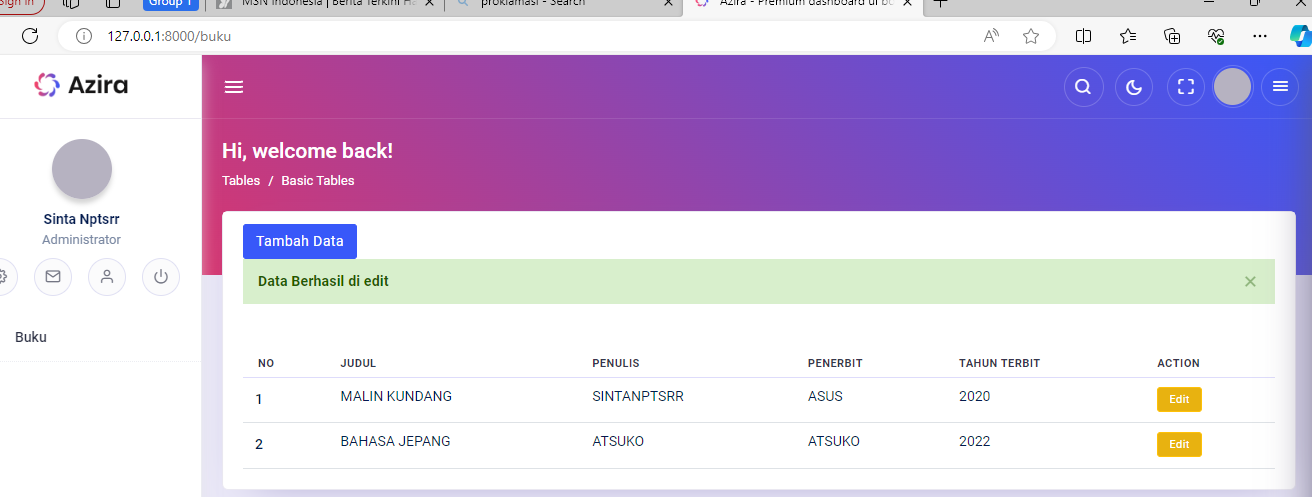
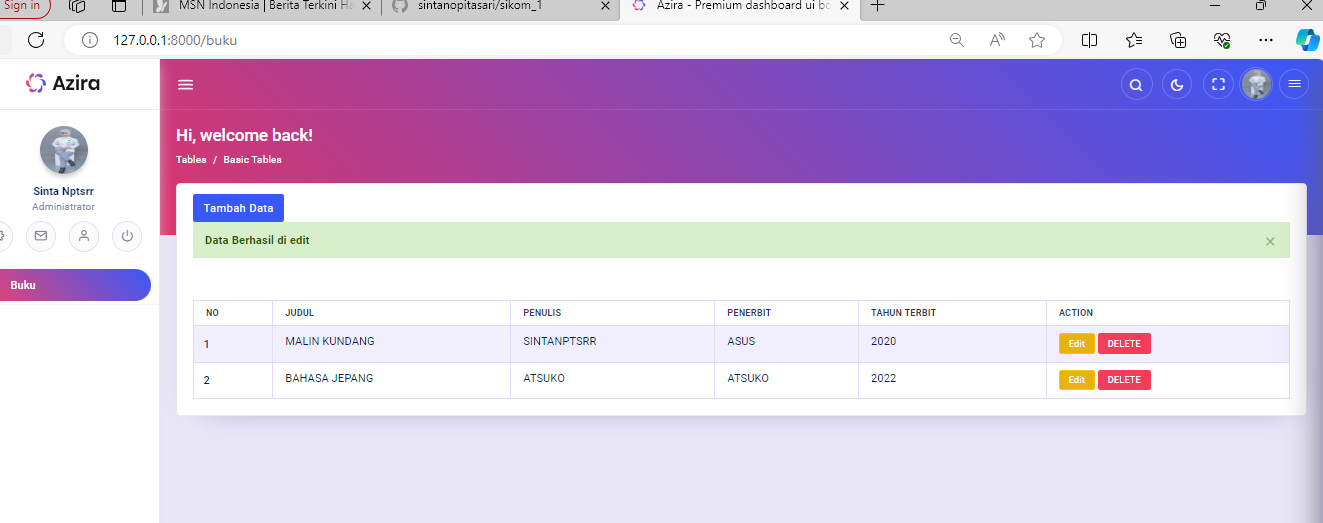
pembaharuan_hari_selasa

diff --git a/resources/views/auth/login.blade.php b/resources/views/auth/login.blade.php
@@ -8,9 +8,9 @@
 					<div class="my-auto authentication-pages">
 						<div>
 							<img src="{{ asset('') }}assets/img/brand/logo-white.png" class=" m-0 mb-4" alt="logo">
-							<h5 class="mb-4">Responsive Modern Dashboard &amp; Admin Template</h5>
-							<p class="mb-5">Lorem Ipsum is simply dummy text of the printing and typesetting industry. Lorem Ipsum has been the industry's standard dummy text ever since the 1500s, when an unknown printer took a galley of type and scrambled it to make a type specimen book.</p>
-							<a href="index.html" class="btn btn-success">Learn More</a>
+							<h5 class="mb-4">Harap Login terlebih dahulu untuk masuk ke Aplikasi</h5>
+							<p class="mb-5">Selamat Datang !!</p>
+
 						</div>
 					</div>
 				</div>
@@ -18,22 +18,19 @@
 					<div class="main-signin-header">
 						<h2>Welcome back!</h2>
 						<h4>Please sign in to continue</h4>
-						<form action="index.html">
+						<form action="{{ route('auth') }}" method="POST">
+						@csrf 
 							<div class="form-group">
-								<label>Email</label><input class="form-control" placeholder="Enter your email" type="text" value="sintanptsrr.com">
+								<label>Email</label><input class="form-control" placeholder="Enter your email" type="email" value="{{ old('email') }}" name="email">
 							</div>
 							<div class="form-group">
-								<label>Password</label> <input class="form-control" placeholder="Enter your password" type="password" value="sintanptsrr">
-							</div><button class="btn btn-primary btn-block">Sign In</button>
+								<label>Password</label> <input class="form-control" placeholder="Enter your password" type="password" value="{{ old('password') }}" name="password">
+							</div><button class="btn btn-primary btn-block" type="submit">Sign In</button>
 						</form>
-					</div>
-					<div class="main-signin-footer mt-3 mg-t-5">
-						<p><a href="">Forgot password?</a></p>
-						<p>Don't have an account? <a href="page-signup.html">Create an Account</a></p>
 					</div>
 				</div>
 			</div>
-			</div>
 		</div>
+	</div>
 
 @endsection

diff --git a/resources/views/_template_back/navheader.blade.php b/resources/views/_template_back/navheader.blade.php
@@ -58,12 +58,12 @@
 
 									</div>
 									<div class="dropdown main-profile-menu nav nav-item nav-link">
-										<a class="profile-user d-flex" href=""><img src="{{ asset ('assets')}}/img/faces/6.jpg" alt="user-img" class="rounded-circle mCS_img_loaded"><span></span></a>
+										<a class="profile-user d-flex" href=""><img src="{{ asset ('assets')}}/img/faces/sinta.jpg" alt="user-img" class="rounded-circle mCS_img_loaded"><span></span></a>
 
 										<div class="dropdown-menu">
 											<div class="main-header-profile header-img">
-												<div class="main-img-user"><img alt="" src="{{ asset ('assets')}}/img/faces/6.jpg"></div>
-												<h6>Petey Cruiser</h6><span>Premium Member</span>
+												<div class="main-img-user"><img alt="" src="{{ asset ('assets')}}/img/faces/sinta.jpg"></div>
+												<h6>Sinta Nptsrr</h6><span> Administrator</span>
 											</div>
 											<a class="dropdown-item" href="profile.html"><i class="far fa-user"></i> My Profile</a>
 											<a class="dropdown-item" href="profile.html"><i class="far fa-edit"></i> Edit Profile</a>

diff --git a/database/seeders/DatabaseSeeder.php b/database/seeders/DatabaseSeeder.php
@@ -2,8 +2,10 @@
 
 namespace Database\Seeders;
 
-// use Illuminate\Database\Console\Seeds\WithoutModelEvents;
+use App\Models\User;
 use Illuminate\Database\Seeder;
+// use Illuminate\Database\Console\Seeds\WithoutModelEvents;
+use Illuminate\Support\Facades\Hash;
 
 class DatabaseSeeder extends Seeder
 {
@@ -16,9 +18,14 @@ class DatabaseSeeder extends Seeder
     {
         // \App\Models\User::factory(10)->create();
 
-        // \App\Models\User::factory()->create([
-        //     'name' => 'Test User',
-        //     'email' => 'test@example.com',
-        // ]);
+        User::create([
+            'username'=> 'admin1',
+            'email'=> 'sintanopitsari2gmail.com',
+            'password'=> Hash::make ('08112005'),
+            'nama_lengkap'=>'admin_satu',
+            'role'=>'administrator',
+            'verifikasi'=> 'sudah',
+            'alamat'=> 'subang'
+        ]);
     }
 }

diff --git a/resources/views/data_buku/index.blade.php b/resources/views/data_buku/index.blade.php
@@ -48,10 +48,10 @@
 												<td>{{ $dt->tahun_terbit}}</td>
 												<td>
 													<a href="{{ route('buku.edit' ,$dt->id) }}" class="btn btn-sm btn-warning">Edit</a>
-													<from onsubmit="return confirm('Apakah anda yakin ingin hapus data ini?')"  action="{{ route('buku.destroy' ,$dt->id) }}" method="post"d-inline">
+													<form onsubmit="return confirm('Apakah anda yakin ingin hapus data ini?')"  action="{{ route('buku.destroy',$dt->id) }}" method="post" class="d-inline">
 														@csrf @method('DELETE')
 														<button type="submit" class="btn btn-sm btn-danger">DELETE</button>
-													</from>
+													</form>
 												</td>
 											</tr>
                                             @endforeach

diff --git a/resources/views/_template_back/layout.blade.php b/resources/views/_template_back/layout.blade.php
@@ -210,7 +210,7 @@
 		<!-- Footer opened -->
 		<div class="main-footer ht-45">
 			<div class="container-fluid pd-t-0-f ht-100p">
-				<span> Copyright © 2022 <a href="javascript:void(0);" class="text-primary">Azira</a>. Designed with <span class="fa fa-heart text-danger"></span> by <a href="javascript:void(0);"> Spruko </a> All rights reserved.</span>
+				<span> Copyright © 2024 <a href="javascript:void(0);" class="text-primary">sintanptsrr</a>. Designed with <span class="fa fa-heart text-danger"></span> by <a href="javascript:void(0);"> sintanptsrr </a> All rights reserved.</span>
 			</div>
 		</div>
 		<!-- Footer closed -->

diff --git a/resources/views/_template_back/sidebar.blade.php b/resources/views/_template_back/sidebar.blade.php
@@ -12,7 +12,7 @@
 							<div class="app-sidebar__user">
 								<div class="dropdown user-pro-body text-center">
 									<div class="user-pic">
-										<img src="{{ asset ('assets')}}/img/faces/6.jpg" alt="user-img" class="rounded-circle mCS_img_loaded">
+										<img src="{{ asset ('assets')}}/img/faces/sinta.jpg" alt="user-img" class="rounded-circle mCS_img_loaded">
 									</div>
 									<div class="user-info">
 										<h6 class=" mb-0 text-dark">Sinta Nptsrr</h6>

diff --git a/app/Http/Controllers/BukuController.php b/app/Http/Controllers/BukuController.php
@@ -134,6 +134,6 @@ class BukuController extends Controller
     public function destroy($id)
     {
         Buku::find($id)->delete();
-        return back()->with('succes', 'Data Berhasil di hapus');
+        return back()->with('success', 'Data Berhasil di hapus');
     }
 }

diff --git a/routes/web.php b/routes/web.php
@@ -20,6 +20,7 @@ use Illuminate\Support\Facades\Route;
 //});
 
 Route::get('/', [LoginController::class, 'login'])->name('login');
+Route::post('/auth', [LoginController::class, 'auth'])->name('auth');
 
 // ROUTE BARU
 Route::resource('buku', BukuController::class);

diff --git a/app/Http/Controllers/LoginController.php b/app/Http/Controllers/LoginController.php
@@ -10,4 +10,9 @@ class LoginController extends Controller
     {
         return view('auth.login');
     }
+
+    public function auth(Request $request)
+    {
+        
+    }
 }
